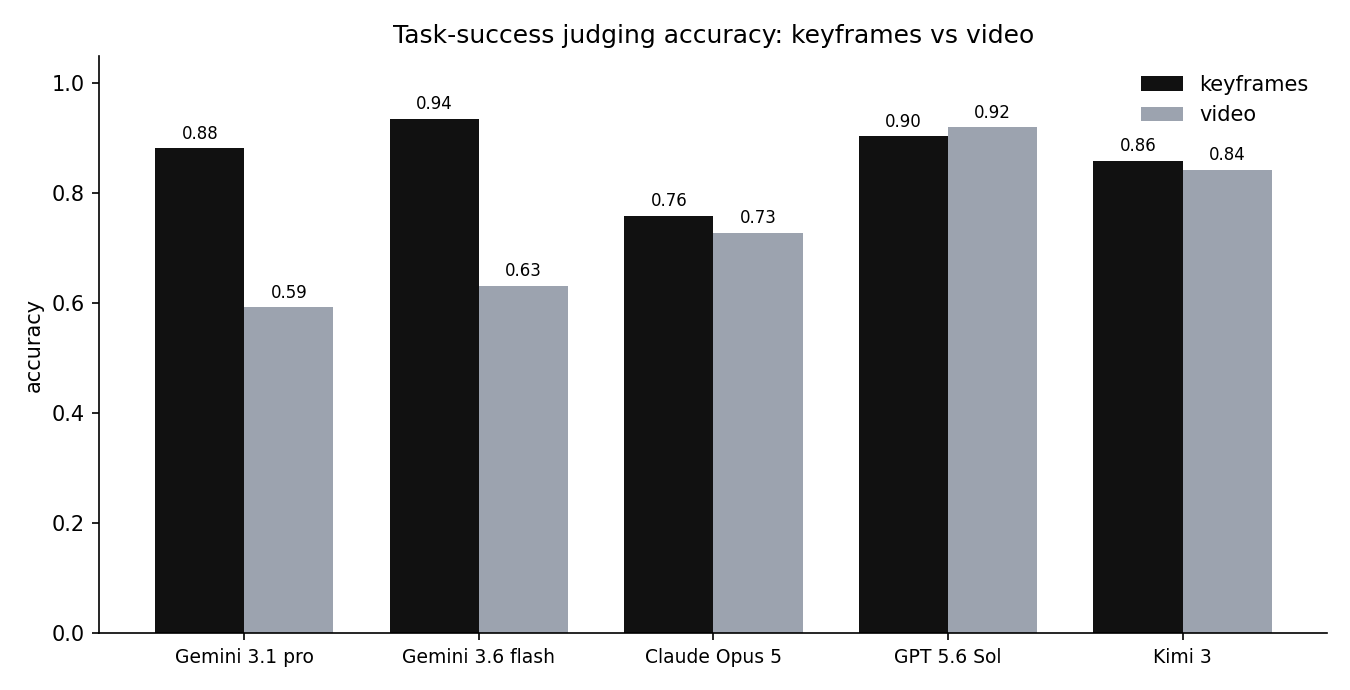
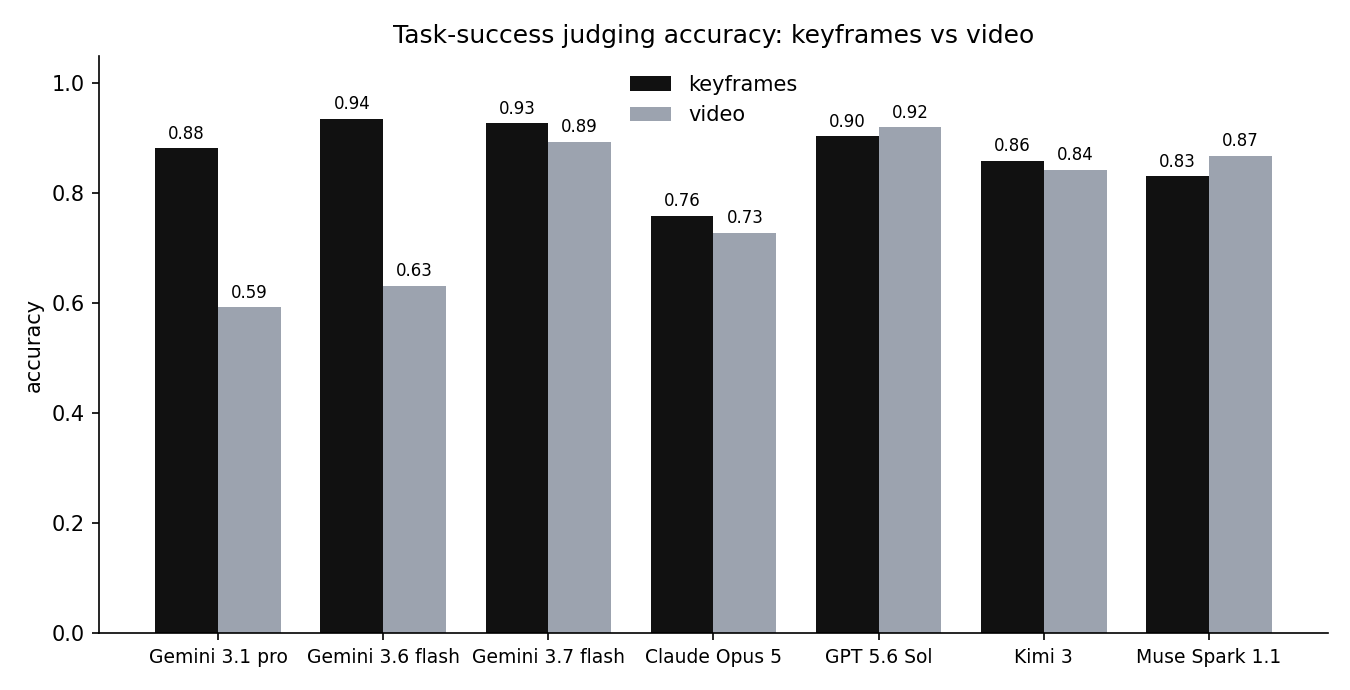
results: add Gemini 3.7 flash and Muse Spark 1.1 (7 judges)
- Gemini 3.7 flash: keyframes 0.93 / video 0.89 - closes the video collapse
  that hit 3.6 flash (0.63); new co-leader on average (0.91) at flash cost
- Muse Spark 1.1 (Meta Model API): keyframes 0.83 / video 0.87 - a video
  specialist, like the other reasoning judges
- Update results.json, README tables + prose, and regenerate charts
- Register both models in src/judges.py (MODELS) and src/cost.py (prices)

Note: per-episode records for the two new models are aggregate-only for now
(summarized in results.json); episodes.jsonl still holds the original five.

diff --git a/src/judges.py b/src/judges.py
@@ -121,6 +121,15 @@ MODELS: List[ModelSpec] = [
               "Moonshot chat.completions (base_url=https://api.moonshot.ai/v1)", supports_native_video=False,
               token_param="max_tokens", send_temperature=False,
               notes="OpenAI-compatible; reasoning model, so temperature is left at the server default."),
+    ModelSpec("gemini-flash-37", "Gemini 3.7 flash", "gemini-3.7-flash", "gemini",
+              "google-genai generate_content", supports_native_video=True,
+              token_param="max_output_tokens", send_temperature=True,
+              notes="Successor to 3.6 flash; unlike its predecessor it holds up on video (0.89 vs 0.63)."),
+    ModelSpec("muse", "Muse Spark 1.1", "muse-spark-1.1", "openai-compatible",
+              "Meta Model API chat.completions (base_url=https://api.meta.ai/v1)", supports_native_video=False,
+              token_param="max_tokens", send_temperature=True,
+              notes="Meta Superintelligence Labs' multimodal reasoning model; frames sent as image_url data URIs. "
+                    "It spends ~400 tokens reasoning per call, so give it a generous output budget."),
 ]
 
 # Frame budgets used by the benchmark.

diff --git a/src/cost.py b/src/cost.py
@@ -27,11 +27,13 @@ from typing import Dict, List, Optional
 # USD per 1,000,000 tokens (input, output). Edit to re-price the benchmark.
 # These are best-estimate list prices at the time of the run.
 PRICE_PER_MILLION: Dict[str, Dict[str, float]] = {
-    "gemini-pro":   {"input": 1.25, "output": 10.0},
-    "gemini-flash": {"input": 0.30, "output": 2.5},
-    "opus-5":       {"input": 5.00, "output": 25.0},
-    "gpt-sol":      {"input": 5.00, "output": 20.0},
-    "kimi":         {"input": 0.60, "output": 2.5},
+    "gemini-pro":      {"input": 1.25, "output": 10.0},
+    "gemini-flash":    {"input": 0.30, "output": 2.5},
+    "gemini-flash-37": {"input": 0.30, "output": 2.5},   # flash-tier, best estimate
+    "opus-5":          {"input": 5.00, "output": 25.0},
+    "gpt-sol":         {"input": 5.00, "output": 20.0},
+    "kimi":            {"input": 0.60, "output": 2.5},
+    "muse":            {"input": 1.25, "output": 4.25},  # Meta Model API list price
 }
 
 

diff --git a/README.md b/README.md
@@ -9,7 +9,7 @@ still put it down in the wrong spot, and if your evaluation can't tell those two
 runs apart, every number downstream is fiction. Before you can trust a policy, you
 have to trust the thing grading it.
 
-This repo is the open dataset and code behind that question. We put five frontier
+This repo is the open dataset and code behind that question. We put seven frontier
 models to work as robot-policy judges, scoring whether an episode accomplished its
 task from **keyframes** and from **video**, across 16 open-source LeRobot datasets.
 Everything needed to reproduce the numbers, and to benchmark a new model against
@@ -26,9 +26,11 @@ count as incorrect, since the judge was asked and didn't answer).
 | --- | --- | --- |
 | Gemini 3.1 pro | 0.88 | 0.59 |
 | Gemini 3.6 flash | **0.94** | 0.63 |
+| Gemini 3.7 flash | 0.93 | 0.89 |
 | Claude Opus 5 | 0.76 | 0.73 |
 | GPT 5.6 Sol | 0.90 | **0.92** |
 | Kimi 3 | 0.86 | 0.84 |
+| Muse Spark 1.1 | 0.83 | 0.87 |
 
 Cost per episode (USD), macro-averaged across datasets:
 
@@ -36,9 +38,11 @@ Cost per episode (USD), macro-averaged across datasets:
 | --- | --- | --- |
 | Gemini 3.1 pro | $0.0058 | $0.0005 |
 | Gemini 3.6 flash | $0.0058 | $0.0008 |
+| Gemini 3.7 flash | $0.0014 | $0.0043 |
 | Claude Opus 5 | $0.0095 | $0.0551 |
 | GPT 5.6 Sol | $0.0078 | $0.0538 |
 | Kimi 3 | $0.0019 | $0.0081 |
+| Muse Spark 1.1 | $0.0048 | $0.0086 |
 
 ![accuracy](charts/accuracy_by_approach.png)
 ![cost vs accuracy](charts/cost_vs_accuracy_keyframes.png)
@@ -46,10 +50,14 @@ Cost per episode (USD), macro-averaged across datasets:
 ### Two things flip depending on the model
 
 **Accuracy.** More frames should mean better judgment, so video should beat
-keyframes everywhere. It doesn't. The reasoning models (GPT-5.6 Sol, Kimi 3, Claude
-Opus 5) hold up or improve on video, while both Gemini judges are excellent on
-keyframes and then crater on the full clip (Flash drops from 0.94 to 0.63). The
-right approach is a property of the judge you picked, not a universal law.
+keyframes everywhere. It doesn't, and which way it breaks depends on the model. The
+reasoning models (GPT-5.6 Sol, Kimi 3, Claude Opus 5, and Meta's Muse Spark 1.1)
+hold up or improve on video. The early Gemini judges were excellent on keyframes
+and then cratered on the full clip (3.6 flash dropped from 0.94 to 0.63), but
+**Gemini 3.7 flash closes that gap**: it holds video at 0.89 while keeping keyframes
+at 0.93, which makes it a co-leader on average (0.91, tied with GPT-5.6 Sol) at
+flash-tier cost. The right approach is still a property of the judge you picked,
+not a universal law.
 
 **Cost.** For Gemini, video is the cheap option: one natively-encoded clip costs
 almost nothing, while a few full-resolution keyframes cost about ten times more.
@@ -93,6 +101,11 @@ python src/charts.py            # regenerates the figures
 its dataset, the judge and approach, the ground-truth label, the source
 (`demo` success or `synthetic` negative), the failure mode for negatives, the
 model's prediction, whether it was correct, and its confidence and latency.
+
+> Note: `episodes.jsonl` holds the per-episode judgments for the original five
+> judges. The two newest models (Gemini 3.7 flash and Muse Spark 1.1) are
+> summarized in [`data/results.json`](data/results.json) (aggregate accuracy and
+> cost, per dataset); their per-episode judgments will be backfilled here.
 
 **How episodes are selected** is in [`src/selection.py`](src/selection.py). The
 open-source episodes uploaded to HuggingFace are almost entirely *success*
